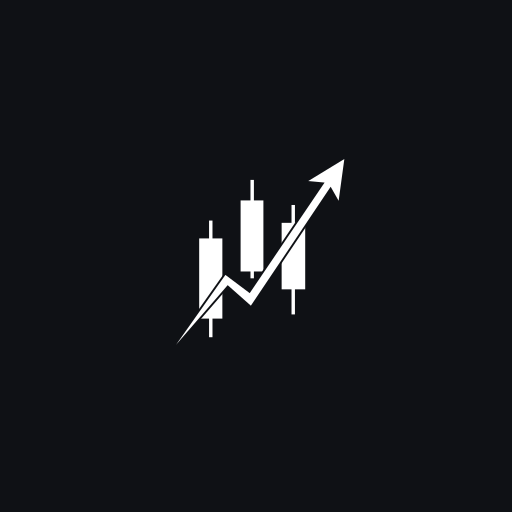
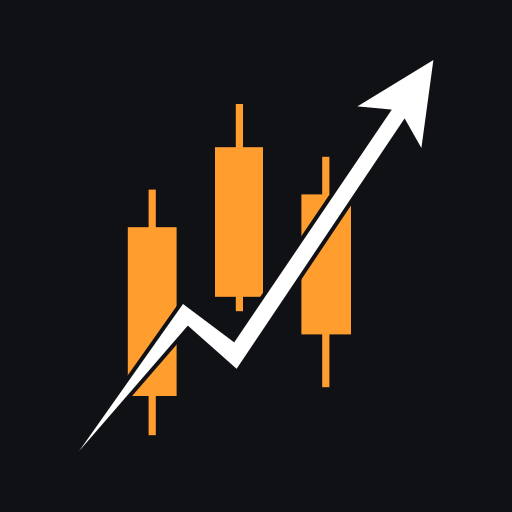
Update

Changed region(s): [[0.1875, 0.125, 0.8438, 0.875], [0.1562, 0.8438, 0.1875, 0.875]]

diff --git a/public/sw.js b/public/sw.js
@@ -1,7 +1,16 @@
-// Trade Journal Service Worker — basic offline support
-// Caches static assets for offline use
+// Trade Journal Service Worker — offline support + fast icon updates.
+//
+// Strategy: stale-while-revalidate.
+//   - Returns cached response immediately (fast).
+//   - Simultaneously fetches from network and updates the cache.
+//   - On SW update, the old cache is deleted so stale icons get replaced.
+//
+// The cache version is bumped whenever static assets (icons, manifest,
+// HTML) change so installed service workers drop the old cache and
+// re-fetch fresh files. Without this bump, the cache-first behaviour
+// would forever serve the old icon.svg / apple-icon.png.
 
-const CACHE_NAME = 'trade-journal-v1'
+const CACHE_NAME = 'trade-journal-v2'
 const STATIC_ASSETS = [
   '/',
   '/dashboard',
@@ -20,12 +29,16 @@ self.addEventListener('install', (event) => {
       return cache.addAll(STATIC_ASSETS).catch(() => {})
     })
   )
+  // Activate the new SW immediately instead of waiting for all tabs
+  // to close — so the cache-version bump takes effect right away.
   self.skipWaiting()
 })
 
 self.addEventListener('activate', (event) => {
   event.waitUntil(
     caches.keys().then((cacheNames) => {
+      // Delete every cache that isn't the current version — this
+      // wipes the stale v1 icon cache so updated icons get re-fetched.
       return Promise.all(
         cacheNames
           .filter((name) => name !== CACHE_NAME)
@@ -33,38 +46,42 @@ self.addEventListener('activate', (event) => {
       )
     })
   )
+  // Take control of all open clients immediately.
   self.clients.claim()
 })
 
 self.addEventListener('fetch', (event) => {
-  // Skip non-GET requests and API calls
+  // Skip non-GET requests and API calls.
   if (event.request.method !== 'GET' || event.request.url.includes('/api/')) {
     return
   }
 
+  // Stale-while-revalidate: serve cached (instant) + refresh in
+  // background so the NEXT load sees the updated asset.
   event.respondWith(
-    caches.match(event.request).then((cached) => {
-      // Return cached if available, otherwise fetch from network
-      return (
-        cached ||
-        fetch(event.request)
+    caches.open(CACHE_NAME).then((cache) => {
+      return cache.match(event.request).then((cached) => {
+        const networkFetch = fetch(event.request)
           .then((response) => {
-            // Cache successful responses
-            if (response.status === 200) {
+            // Cache successful responses for next time.
+            if (response && response.status === 200 && response.type === 'basic') {
               const responseClone = response.clone()
-              caches.open(CACHE_NAME).then((cache) => {
-                cache.put(event.request, responseClone)
-              })
+              cache.put(event.request, responseClone)
             }
             return response
           })
           .catch(() => {
-            // Offline fallback — return cached landing page
+            // Offline fallback — return cached landing page for navigations.
             if (event.request.mode === 'navigate') {
-              return caches.match('/')
+              return cache.match('/')
             }
+            // For other assets, fall back to whatever cache we have.
+            return cached
           })
-      )
+
+        // Return cached immediately if available, otherwise wait on network.
+        return cached || networkFetch
+      })
     })
   )
 })
